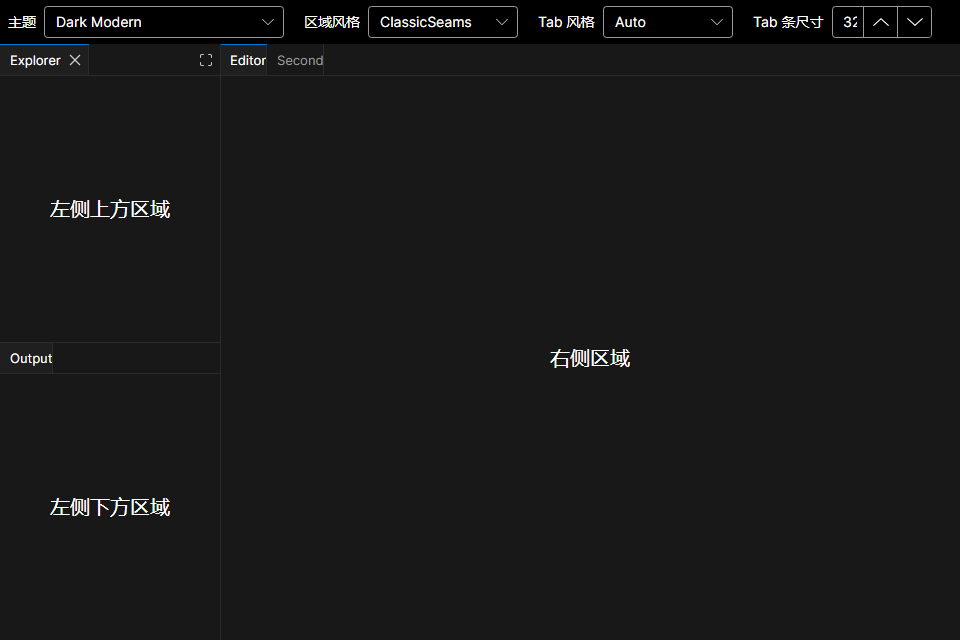
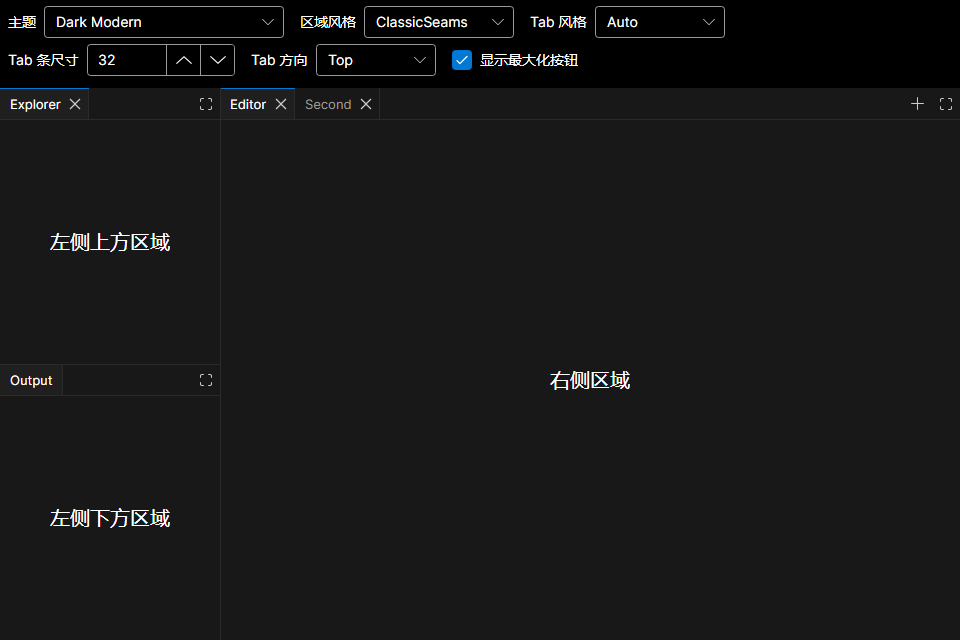
Polish tab controls and header actions

diff --git a/samples/GOZA.Dock.Minimal/MainViewModel.cs b/samples/GOZA.Dock.Minimal/MainViewModel.cs
@@ -1,6 +1,7 @@
 using System.Collections.ObjectModel;
 using System.ComponentModel;
 using System.Runtime.CompilerServices;
+using System.Windows.Input;
 using Avalonia;
 using Avalonia.Styling;
 using GOZA.Dock;
@@ -15,7 +16,10 @@ public sealed class MainViewModel : INotifyPropertyChanged
     private VsCodeColorTheme? _colorTheme;
     private DockPanePresentation _panePresentation = DockPanePresentation.ClassicSeams;
     private DockTabPresentation _tabPresentation = DockTabPresentation.Auto;
+    private DockTabStripPlacement _tabStripPlacement = DockTabStripPlacement.Top;
+    private bool _showMaximizeButton = true;
     private double _tabStripSize = DockShell.DefaultTabStripSize;
+    private int _nextRightTab = 3;
 
     public MainViewModel()
     {
@@ -31,8 +35,8 @@ public sealed class MainViewModel : INotifyPropertyChanged
         ];
         RightTabs =
         [
-            new PlainTab("right-1", "Editor", "右侧区域"),
-            new PlainTab("right-2", "Second", "右侧第二个标签（可拖拽）"),
+            new PlainTab("right-1", "Editor", "右侧区域") { IsClosable = true },
+            new PlainTab("right-2", "Second", "右侧第二个标签（可拖拽）") { IsClosable = true },
         ];
 
         // 列表里就是主题实例；选中后直接赋给 ColorTheme（绑定到 DockShell）。
@@ -49,6 +53,7 @@ public sealed class MainViewModel : INotifyPropertyChanged
         ];
 
         ColorTheme = Themes[0];
+        AddRightTabCommand = new DelegateCommand(AddRightTab);
     }
 
     public event PropertyChangedEventHandler? PropertyChanged;
@@ -65,6 +70,11 @@ public sealed class MainViewModel : INotifyPropertyChanged
 
     public IReadOnlyList<DockTabPresentation> TabPresentations { get; } =
         Enum.GetValues<DockTabPresentation>();
+
+    public IReadOnlyList<DockTabStripPlacement> TabStripPlacements { get; } =
+        Enum.GetValues<DockTabStripPlacement>();
+
+    public ICommand AddRightTabCommand { get; }
 
     /// <summary>直接绑 <c>DockShell.ColorTheme</c>；ComboBox 的 SelectedItem 也是它。</summary>
     public VsCodeColorTheme? ColorTheme
@@ -125,6 +135,54 @@ public sealed class MainViewModel : INotifyPropertyChanged
         }
     }
 
+    /// <summary>Applies one tab-strip direction to every region in the minimal sample.</summary>
+    public DockTabStripPlacement TabStripPlacement
+    {
+        get => _tabStripPlacement;
+        set
+        {
+            if (_tabStripPlacement == value)
+                return;
+
+            _tabStripPlacement = value;
+            OnPropertyChanged();
+        }
+    }
+
+    public bool ShowMaximizeButton
+    {
+        get => _showMaximizeButton;
+        set
+        {
+            if (_showMaximizeButton == value)
+                return;
+
+            _showMaximizeButton = value;
+            OnPropertyChanged();
+        }
+    }
+
+    private void AddRightTab()
+    {
+        var number = _nextRightTab++;
+        RightTabs.Add(new PlainTab($"right-{number}", $"Editor {number}", $"右侧第 {number} 个标签")
+        {
+            IsClosable = true
+        });
+    }
+
     private void OnPropertyChanged([CallerMemberName] string? name = null) =>
         PropertyChanged?.Invoke(this, new PropertyChangedEventArgs(name));
+
+    private sealed class DelegateCommand(Action execute) : ICommand
+    {
+        public event EventHandler? CanExecuteChanged
+        {
+            add { }
+            remove { }
+        }
+
+        public bool CanExecute(object? parameter) => true;
+        public void Execute(object? parameter) => execute();
+    }
 }

diff --git a/src/GOZA.Dock/Controls/DockRegion.cs b/src/GOZA.Dock/Controls/DockRegion.cs
@@ -84,7 +84,7 @@ public sealed class DockRegion : TemplatedControl, IDockRegionSession
         AvaloniaProperty.Register<DockRegion, ICommand?>(nameof(TabClosedCommand));
 
     public static readonly StyledProperty<bool> ShowMaximizeButtonProperty =
-        AvaloniaProperty.Register<DockRegion, bool>(nameof(ShowMaximizeButton));
+        AvaloniaProperty.Register<DockRegion, bool>(nameof(ShowMaximizeButton), true);
 
     public static readonly StyledProperty<bool> CanMaximizeProperty =
         AvaloniaProperty.Register<DockRegion, bool>(nameof(CanMaximize), true);
@@ -243,7 +243,10 @@ public sealed class DockRegion : TemplatedControl, IDockRegionSession
         set => SetValue(TabClosedCommandProperty, value);
     }
 
-    /// <summary>Shows the built-in maximize/restore button at the trailing edge of the header.</summary>
+    /// <summary>
+    /// Shows the built-in maximize/restore button at the trailing edge of the header.
+    /// Defaults to true.
+    /// </summary>
     public bool ShowMaximizeButton
     {
         get => GetValue(ShowMaximizeButtonProperty);

diff --git a/docs/3.0.6/api-reference.md b/docs/3.0.6/api-reference.md
@@ -114,13 +114,15 @@ One tab region. It owns selection, view realization, tab drag/drop, and close re
 | `HeaderContentTemplate` | `IDataTemplate?` | `null` | Template used to render a `HeaderContent` object or view model. |
 | `TabClosedCommand` | `ICommand?` | `null` | **Notification after the fact.** The library has already removed the tab and evicted its cached view; the command parameter is the closed `IDockTabItem`. |
 | `CanDragTabs` | `bool` | `true` | `false` detaches the gesture controller: tabs can still be selected and closed, but not reordered or moved. Toggling at runtime re-attaches/detaches immediately. |
-| `ShowMaximizeButton` | `bool` | `false` | Shows the built-in maximize/restore button. |
+| `ShowMaximizeButton` | `bool` | `true` | Shows the built-in maximize/restore button at the trailing edge. |
 | `CanMaximize` | `bool` | `true` | Allows the region to fill its containing shell. |
 | `DoubleClickHeaderToMaximize` | `bool` | `true` | Toggles maximize from an empty-header double click. |
 | `ShowHeaderBodySeparator` | `bool` | `false` | Keeps the full one-pixel divider between the selected header and body. |
 | `IsMaximized` | `bool` | `false` | Read-only maximize state. |
 
 Inherited and themed by default: `Background` (`DockPaneBackgroundBrush`), `BorderBrush`, `BorderThickness`, `CornerRadius`.
+
+Header chrome is anchored to the trailing edge. Its visual order is: per-tab close button, remaining tab strip, Add, `HeaderContent`, then maximize/restore at the outer edge. For vertical strips the same order runs toward the bottom. Add remains opt-in because the library cannot construct an application-specific tab without an `AddTabCommand`.
 
 ### Methods
 

diff --git a/docs/3.0.6/zh-CN/api-reference.md b/docs/3.0.6/zh-CN/api-reference.md
@@ -114,13 +114,15 @@ public sealed class DockRegion : TemplatedControl, IDockRegionSession
 | `HeaderContentTemplate` | `IDataTemplate?` | `null` | 用于呈现 `HeaderContent` 对象或 ViewModel 的模板。 |
 | `TabClosedCommand` | `ICommand?` | `null` | **事后通知**——库已经完成了移除和缓存清理；命令参数是被关闭的 `IDockTabItem`。 |
 | `CanDragTabs` | `bool` | `true` | 设为 `false` 时拆掉手势控制器：仍可选中/关闭，但不能重排和跨区移动。运行时切换会立即重新挂载/拆除。 |
-| `ShowMaximizeButton` | `bool` | `false` | 显示内置最大化/还原按钮。 |
+| `ShowMaximizeButton` | `bool` | `true` | 在尾端显示内置最大化/还原按钮。 |
 | `CanMaximize` | `bool` | `true` | 是否允许 Region 填满所属 Shell。 |
 | `DoubleClickHeaderToMaximize` | `bool` | `true` | 双击 Header 空白区域时切换最大化。 |
 | `ShowHeaderBodySeparator` | `bool` | `false` | 是否在选中 Header 与 Body 之间保留完整 1px 分隔线。 |
 | `IsMaximized` | `bool` | `false` | 只读最大化状态。 |
 
 主题默认提供：`Background`（`DockPaneBackgroundBrush`）、`BorderBrush`、`BorderThickness`、`CornerRadius`。
+
+Header Chrome 固定在尾端，视觉顺序为：各 Tab 内关闭按钮、剩余 Tab 条、Add、`HeaderContent`、最外侧最大化/还原。垂直 Tab 条沿相同顺序排向底端。Add 仍需显式开启，因为没有 `AddTabCommand` 时库无法构造应用自己的 Tab。
 
 ### 方法
 

diff --git a/docs/3.0.6/theming.md b/docs/3.0.6/theming.md
@@ -75,6 +75,8 @@ Title **font scales** with this value (`13 × strip/32`); horizontal padding sta
 
 Set an explicit value to combine either tab style with either pane style. Classic tabs consume the standard VS Code keys `editorGroupHeader.tabsBackground`, `editorGroupHeader.tabsBorder`, `tab.activeBackground`, `tab.inactiveBackground`, `tab.activeForeground`, `tab.inactiveForeground`, `tab.hoverBackground`, `tab.hoverForeground`, `tab.border`, `tab.activeBorder`, and `tab.activeBorderTop`.
 
+Non-closable classic tabs use balanced 10px horizontal title insets. Closable tabs use a 10px leading inset plus the 28px close-action lane. Header actions stay pinned to the trailing edge in the order Add → custom `HeaderContent` → maximize/restore.
+
 | ClassicSeams + Auto (default) | ModernCards + Auto |
 |---|---|
 | ![Classic seam and classic tab presentation](../../images/3.0.6/classic-tabs.png) | ![Modern card presentation](../../images/3.0.6/modern-cards.png) |

diff --git a/docs/3.0.6/release-notes.md b/docs/3.0.6/release-notes.md
@@ -9,6 +9,8 @@
 - Added runtime `DockShell.PanePresentation` switching between `ModernCards` and VS Code-style `ClassicSeams`, without recreating tabs or views. `ClassicSeams` is the default.
 - Added runtime `DockShell.TabPresentation`: `ClassicTabs` reproduces the legacy VS Code full-height rectangular tab strip, `ModernPills` retains the rounded style, and the default `Auto` follows the pane presentation. Both tab styles can be paired with either pane style.
 - Added `DockShell.SashSize`, defaulting to a shared 12px mouse, pen, and touch hit target without widening the visible boundary.
+- The built-in maximize/restore action is now visible by default. The minimal sample exposes tab direction and maximize visibility, uses a responsive wrapping settings bar, and keeps the tab-size editor fully readable.
+- Balanced the trailing inset of non-closable classic tabs while retaining the VS Code 28px close-action lane for closable tabs.
 
 ---
 

diff --git a/docs/3.0.6/zh-CN/theming.md b/docs/3.0.6/zh-CN/theming.md
@@ -72,6 +72,8 @@ JSON 缺少 `type` 时查 [`VsCodeThemeTypeMap`](https://github.com/0use-TE/GOZA
 
 显式指定后，两种 Tab 风格都能与任一区域风格组合。经典 Tab 直接使用标准 VS Code 键：`editorGroupHeader.tabsBackground`、`editorGroupHeader.tabsBorder`、`tab.activeBackground`、`tab.inactiveBackground`、`tab.activeForeground`、`tab.inactiveForeground`、`tab.hoverBackground`、`tab.hoverForeground`、`tab.border`、`tab.activeBorder`、`tab.activeBorderTop`。
 
+不可关闭的经典 Tab 使用对称的 10px 左右标题留白；可关闭 Tab 使用 10px 起始留白和 28px 关闭操作区。Header 操作固定在尾端，顺序为 Add → 自定义 `HeaderContent` → 最大化/还原。
+
 | ClassicSeams + Auto（默认） | ModernCards + Auto |
 |---|---|
 | ![经典直缝与经典 Tab 模式](../../../images/3.0.6/classic-tabs.png) | ![现代卡片区域模式](../../../images/3.0.6/modern-cards.png) |

diff --git a/docs/3.0.6/zh-CN/release-notes.md b/docs/3.0.6/zh-CN/release-notes.md
@@ -9,6 +9,8 @@
 - 新增 `DockShell.PanePresentation`，可在 `ModernCards` 与 VS Code 风格的 `ClassicSeams` 之间运行时切换，且不会重建 Tab 或 View；默认采用 `ClassicSeams`。
 - 新增运行时 `DockShell.TabPresentation`：`ClassicTabs` 复刻旧版 VS Code 满高矩形 Tab 条，`ModernPills` 保留圆角风格，默认 `Auto` 跟随区域模式；两种 Tab 均可与任一区域模式组合。
 - 新增 `DockShell.SashSize`，鼠标、触控笔和手指共用默认 12px 命中区，同时不加宽可见边界。
+- 内置最大化/还原按钮改为默认显示。Minimal 示例新增 Tab 方向与最大化按钮开关，设置栏支持自适应换行，Tab 尺寸编辑器保持完整可见。
+- 经典模式下不可关闭 Tab 的左右留白改为平衡布局；可关闭 Tab 仍保留 VS Code 的 28px 关闭操作区。
 
 ---
 
